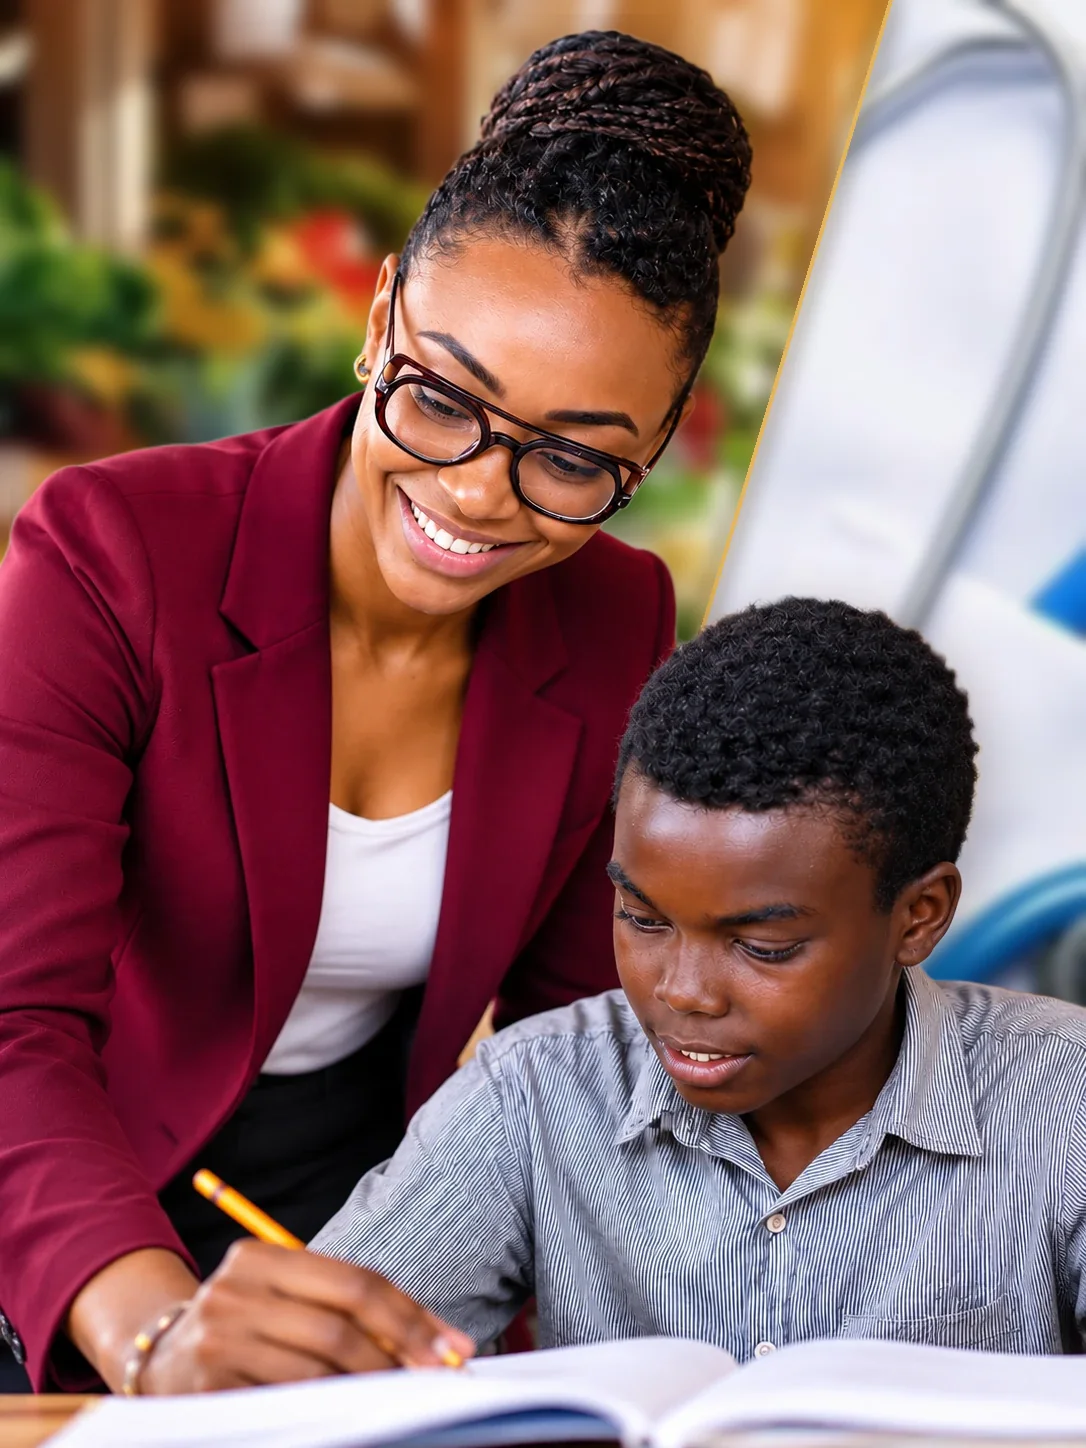
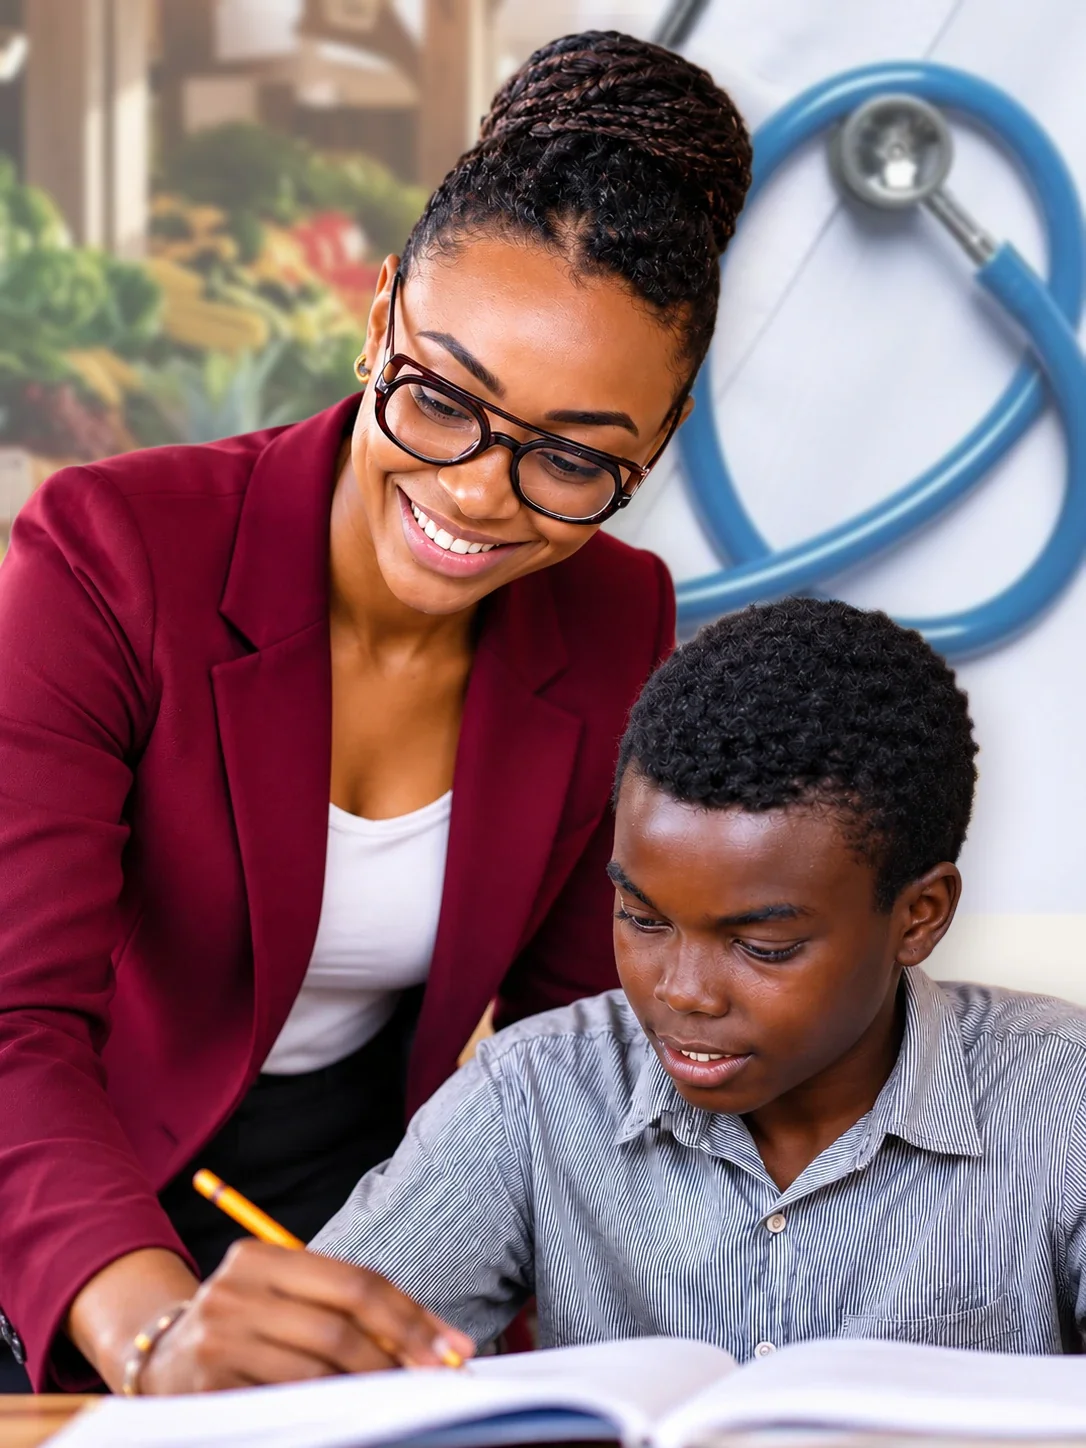
Staff login: Teacher Spotlight style background
Market (left) and stethoscope (right) now blend softly into one light,
airy background, washed and lightly blurred like the Teacher Spotlight
poster, with no hard line. The photo stays light at the top and fades
into deep crimson behind the quote; the Staff portal tag is a white pill.
Draft for review, not merged.

Claude-Session: https://claude.ai/code/session_019J8kPUZosdYQmW6GovsKDk

Changed region(s): [[0.0, 0.0, 1.0, 0.4662], [0.8508, 0.5905, 1.0, 0.7148]]

diff --git a/frontend/src/pages/AdminLoginPage.jsx b/frontend/src/pages/AdminLoginPage.jsx
@@ -28,8 +28,8 @@ const CSS = `
 .sl *{box-sizing:border-box}
 .sl-photo{position:relative;margin:16px;border-radius:28px;overflow:hidden;min-height:calc(100vh - 32px);background:#3A0A14}
 .sl-photo img{position:absolute;inset:0;width:100%;height:100%;object-fit:cover;object-position:45% 28%}
-.sl-photo::after{content:'';position:absolute;inset:0;background:linear-gradient(180deg,rgba(40,4,12,.30) 0%,rgba(40,4,12,0) 26%,rgba(40,4,12,0) 46%,rgba(40,4,12,.55) 66%,rgba(36,3,10,.92) 100%)}
-.sl-tag{position:absolute;z-index:2;top:22px;left:22px;display:inline-flex;align-items:center;gap:8px;padding:8px 14px;border-radius:999px;background:rgba(255,255,255,.16);border:1px solid rgba(255,255,255,.28);backdrop-filter:blur(12px);-webkit-backdrop-filter:blur(12px);color:#FBF6EE;font-size:12px;font-weight:800;letter-spacing:.14em;text-transform:uppercase}
+.sl-photo::after{content:'';position:absolute;inset:0;background:linear-gradient(180deg,rgba(125,16,37,0) 0%,rgba(125,16,37,0) 50%,rgba(110,14,33,.62) 68%,rgba(78,9,22,.94) 84%,#4A0915 100%)}
+.sl-tag{position:absolute;z-index:2;top:22px;left:22px;display:inline-flex;align-items:center;gap:8px;padding:8px 16px 8px 10px;border-radius:999px;background:#fff;box-shadow:0 10px 24px rgba(60,20,25,.16);color:#7D1025;font-size:12px;font-weight:800;letter-spacing:.14em;text-transform:uppercase}
 .sl-quote{position:absolute;z-index:2;left:clamp(26px,4vw,52px);right:clamp(26px,4vw,52px);bottom:clamp(28px,5vh,52px)}
 .sl-mark{font-family:'Source Serif 4',Georgia,serif;font-size:76px;line-height:.6;color:#E8BA60;display:block;height:34px}
 .sl-line{font-family:'Source Serif 4',Georgia,serif;font-style:italic;font-weight:600;font-size:clamp(1.6rem,2.3vw,2.25rem);line-height:1.2;color:#FBF6EE;margin:0 0 18px;min-height:2.4em;transition:opacity .6s ease,transform .6s ease}
